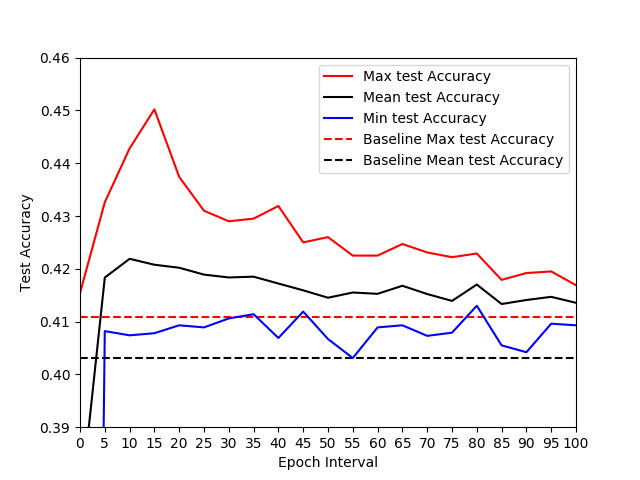
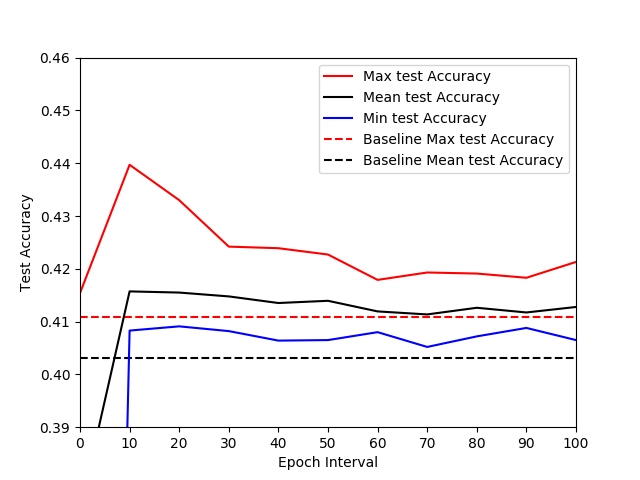
plotting and figure updates

diff --git a/post-experiment/ESKD-Analysis/ESKD Accuracy/plot.py b/post-experiment/ESKD-Analysis/ESKD Accuracy/plot.py
@@ -5,11 +5,11 @@ import numpy as np
 import os
 import re
 
-PATH_TO_STUDENT_MODELS = "results/experiment-3/ESKD_Knowledge_Distillation_cifar100_2_18-12-19_18:04:58/models"
+PATH_TO_STUDENT_MODELS = "results/experiment-1/ESKD_Knowledge_Distillation_cifar100_2_16-12-19_23:17:30/models"
 PATH_TO_FIGURES = "results/figures"
 
 
-def group_results_by_interval_to_vacc(min_epoch=0, max_logit_epochs=100, max_epoch=200, epoch_interval=5) -> list:
+def group_results_by_interval_to_vacc(min_epoch=0, max_logit_epochs=200, max_epoch=200, epoch_interval=10) -> list:
     """
     Parse results for validation accuracy and interval and group by interval
     :param min_epoch: Minimum epoch value for results
@@ -19,7 +19,7 @@ def group_results_by_interval_to_vacc(min_epoch=0, max_logit_epochs=100, max_epo
     """
     # Collecting student model results and building dict for each epoch interval
     student_results = os.listdir(PATH_TO_STUDENT_MODELS)
-    results_groups = [[] for i in range(min_epoch, max_logit_epochs + epoch_interval, epoch_interval)]
+    results_groups = [[] for i in range(min_epoch, max_logit_epochs + epoch_interval-1, epoch_interval)]
     for result in student_results:
         interval, vacc = re.findall(rf"model_2_(\d+)\|{max_epoch}_\d+_(\d+.\d+)", result)[0]
         interval = int(interval)
@@ -50,7 +50,7 @@ def plot_student_models():
 
 def plot_epoch_against_vacc(min_epoch=0, max_epoch=200, epoch_interval=10):
     # Grabbing file names from experiment directory and grouping by iteration interval
-    grouped_results = group_results_by_interval_to_vacc()
+    grouped_results = group_results_by_interval_to_vacc(epoch_interval=epoch_interval)
     epoch_intervals = np.arange(min_epoch, max_epoch + epoch_interval, epoch_interval)
 
     # Calculating max, average, and minimum values for each interval
@@ -186,6 +186,6 @@ def plot_epoch_against_temp_against_vacc(min_epoch=0, max_logit_epochs=100, max_
     plt.show()
 
 if __name__ == "__main__":
-    plot_epoch_against_vacc(min_epoch=0, max_epoch=100, epoch_interval=5)
-    plot_epoch_against_temp_against_vacc(min_epoch=0, max_logit_epochs=100, max_epoch=200, epoch_interval=5,
-                                         min_temp=0, max_temp=10, temp_interval=1)
+    plot_epoch_against_vacc(min_epoch=0, max_epoch=200, epoch_interval=10)
+    plot_epoch_against_temp_against_vacc(min_epoch=0, max_logit_epochs=200, max_epoch=200, epoch_interval=10,
+                                         min_temp=0, max_temp=20, temp_interval=2)

diff --git a/run-experiment/ESKD_AR_Evaluation.py b/run-experiment/ESKD_AR_Evaluation.py
@@ -31,7 +31,7 @@ STEP_EPS = 0.1
 EPS_VALS = np.arange(MIN_EPS, MAX_EPS+STEP_EPS-1e-2, STEP_EPS)
 
 # experiment results CSV
-RESULTS_FILE = "experiment3_adversarial_robustness.csv"
+RESULTS_FILE = "experiment3_AR_BIM.csv"
 # generate a list of paths to the student models
 # MODEL_DIR = "/home/blakete/ESKD_Knowledge_Distillation_cifar100_2_18-12-19_18:04:58/models"
 MODEL_DIR = "/Users/blakeedwards/Desktop/Repos/research/neural-distiller/post-experiment/ESKD-Analysis/ESKD Accuracy/results/experiment-3/ESKD_Knowledge_Distillation_cifar100_2_18-12-19_18:04:58/models"
@@ -75,12 +75,15 @@ zeros = [0 for name in STUDENT_MODEL_NAMES]
 for eps in EPS_VALS:
     df[("eps_"+str(format(eps, '.3f')))] = zeros
 
+size = 10
 print("[INFO] Loading student model...")
 curr_student_model = KnowledgeDistillationModels.get_model_cifar100(100, X_train, int(size))
 optimizer = SGD(lr=0.01, momentum=0.9, nesterov=True)
 curr_student_model.compile(optimizer=optimizer,
                            loss="categorical_crossentropy",
                            metric=["acc"])
+curr_student_model.summary()
+
 for i in range(len(STUDENT_MODEL_WEIGHT_PATHS)):
     print("\n--------------------------Starting new AR step--------------------------")
     # load weights for the student model
@@ -107,4 +110,3 @@ for i in range(len(STUDENT_MODEL_WEIGHT_PATHS)):
         del predictions
         print(f"[INFO] Recording adversarial robustness results to {RESULTS_FILE}...")
         df.to_csv(RESULTS_FILE, sep=',')
-

diff --git a/post-experiment/ESKD-Analysis/AR Robustness/heatplot.py b/post-experiment/ESKD-Analysis/AR Robustness/heatplot.py
@@ -3,9 +3,11 @@ import seaborn as sns
 import matplotlib.pyplot as plt
 sns.set()
 
-RESULTS_FILE = "experiment3_adversarial_robustness.csv"
-EPS = "0.100"
-ATTACK = "BIM"
+RESULTS_FILE = "experiment3_AR_FGM.csv"
+EXP = "experiment2"
+EPS = "0.050"
+ATTACK = "FGM"
+CMAP = "gnuplot2"
 df_plot = pd.read_csv(RESULTS_FILE)
 df = df_plot[df_plot.interval != 0]
 df_min = df['eps_'+EPS].min()
@@ -13,9 +15,9 @@ df_max = df['eps_'+EPS].max()
 hm_data1 = pd.pivot_table(df_plot, values='eps_' + EPS,
                           index=['temp'],
                           columns='interval')
-plot = sns.heatmap(hm_data1, cmap='binary', vmin=df_min, vmax=df_max)
+plot = sns.heatmap(hm_data1, cmap=CMAP, vmin=df_min, vmax=df_max)
 plot.invert_yaxis()
 plt.title("Adversarial Accuracy w.r.t Temperature and Epoch Interval ("+ATTACK+", Epsilon "+EPS+")")
 fig = plot.get_figure()
-fig.savefig("AR_"+ATTACK+"_Eps_"+EPS+".png")
+fig.savefig(EXP+"_AR_"+ATTACK+"_Eps_"+EPS+"_"+CMAP+".png")
 plt.show()

diff --git a/run-experiment/Experiments/ESKD_AR_Evaluation.py b/run-experiment/Experiments/ESKD_AR_Evaluation.py
@@ -25,7 +25,7 @@ STEP_EPS = 0.1
 EPS_VALS = np.arange(MIN_EPS, MAX_EPS+STEP_EPS-1e-2, STEP_EPS)
 
 # experiment results CSV
-RESULTS_FILE = "experiment3_adversarial_robustness.csv"
+RESULTS_FILE = "experiment3_AR_BIM.csv"
 # generate a list of paths to the student models
 MODEL_DIR = "/Users/blakeedwards/Desktop/Repos/research/neural-distiller/post-experiment/ESKD-Analysis/results/experiment-3/ESKD_Knowledge_Distillation_cifar100_2_18-12-19_18:04:58/models"
 DIR_QUERY = os.path.join(MODEL_DIR, "*.h5")
